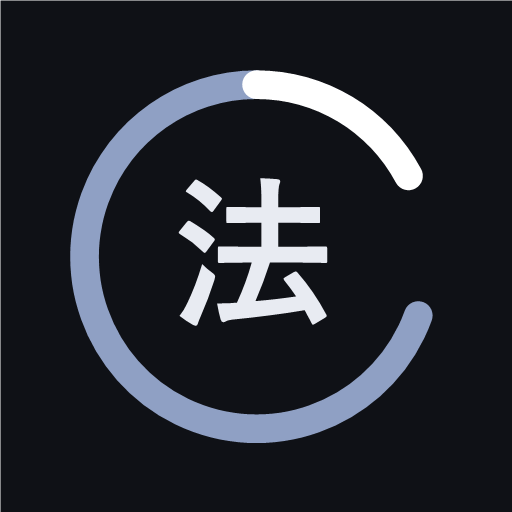
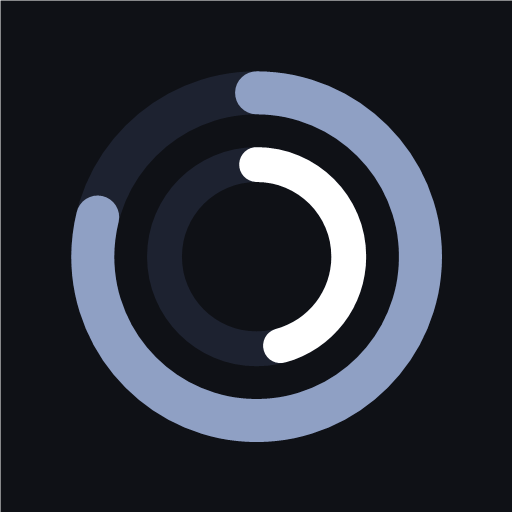
名称を studylog に統一し、アイコンを汎用の達成リングに差し替え
「法」の字は予備試験に寄りすぎるため、アプリの核である
二重の達成リング(外=目標の藍 / 内=達成の純白)だけの意匠にした。

diff --git a/index.html b/index.html
@@ -3,13 +3,13 @@
 <head>
 <meta charset="utf-8">
 <meta name="viewport" content="width=device-width, initial-scale=1, viewport-fit=cover">
-<title>予備試験 学習ログ</title>
+<title>studylog</title>
 
 <meta name="theme-color" content="#0f1116">
 <meta name="color-scheme" content="dark">
 <meta name="apple-mobile-web-app-capable" content="yes">
 <meta name="apple-mobile-web-app-status-bar-style" content="black-translucent">
-<meta name="apple-mobile-web-app-title" content="学習ログ">
+<meta name="apple-mobile-web-app-title" content="studylog">
 <meta name="mobile-web-app-capable" content="yes">
 <meta name="robots" content="noindex, nofollow">
 
@@ -29,7 +29,7 @@
 <!-- ===================== トークン入力 ===================== -->
 <div id="gate" class="gate">
   <div class="gate-inner">
-    <h1 class="gate-title">予備試験 学習ログ</h1>
+    <h1 class="gate-title">studylog</h1>
     <p class="gate-lead">アクセストークンを入力してください。この端末には保存されるので、次回からは不要です。</p>
     <input id="gate-input" class="gate-input" type="password" autocomplete="off"
            spellcheck="false" placeholder="トークン" aria-label="アクセストークン">

diff --git a/README.md b/README.md
@@ -1,6 +1,6 @@
-# 予備試験 学習ログ — フロントエンド
+# studylog — フロントエンド (PWA)
 
-予備試験の学習時間を記録・可視化する PWA の「殻」。
+学習時間を記録・可視化する PWA の「殻」。
 GitHub Pages で配信し、データは Google Apps Script の Web アプリを JSON API として叩いて出し入れする。
 
 **このリポジトリにデータは一切入らない。** 学習記録も認証トークンも Google 側にあり、
@@ -33,7 +33,7 @@ GAS の Web アプリは `script.google.com` のサンドボックス iframe の
 | `sw.js` | Service Worker（殻だけキャッシュ） |
 | `manifest.webmanifest` | PWA マニフェスト |
 
-サーバー側（GAS）のソースは別リポジトリ。ローカルの `C:\Users\white\yobi-studylog`。
+サーバー側（GAS）のソースは別リポジトリ。ローカルの `C:\Users\white\studylog-server`。
 
 ## 通信
 
@@ -66,7 +66,7 @@ action は `verifyToken` / `bootstrap` / `stats` / `sessionsForDay` / `recordedD
 ## 更新のしかた
 
 ```bash
-cd C:/Users/white/yobi-studylog-shell
+cd C:/Users/white/studylog-app
 git add -A
 git commit -m "..."
 git push
@@ -80,7 +80,7 @@ push すると GitHub Pages が数十秒で反映する。
 ## ローカルで確認
 
 ```bash
-cd C:/Users/white/yobi-studylog-shell
+cd C:/Users/white/studylog-app
 npx --yes http-server -p 4173 -c-1
 ```
 
